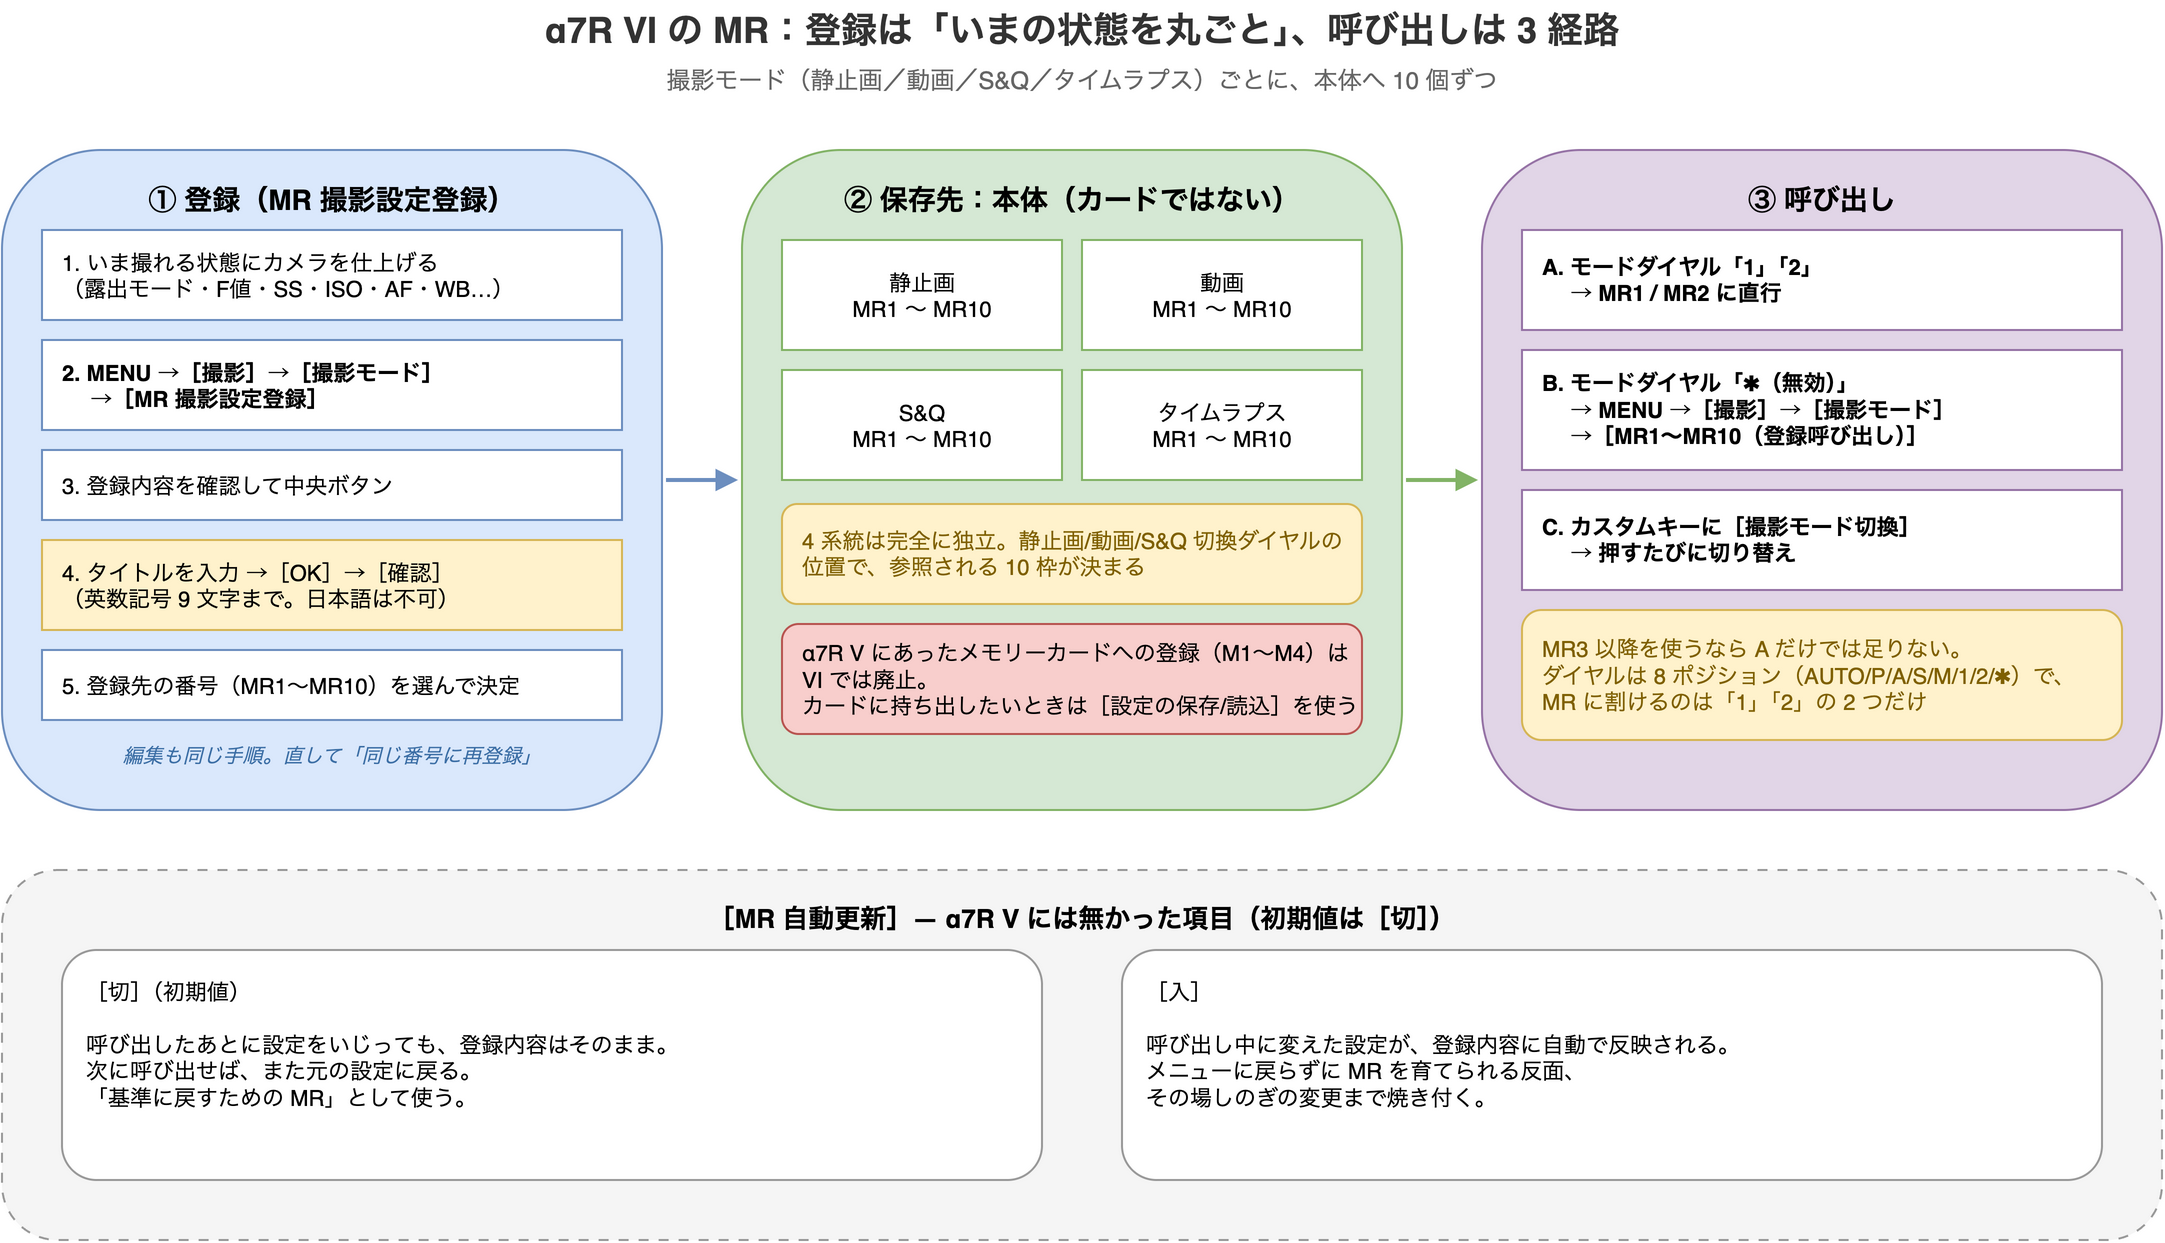
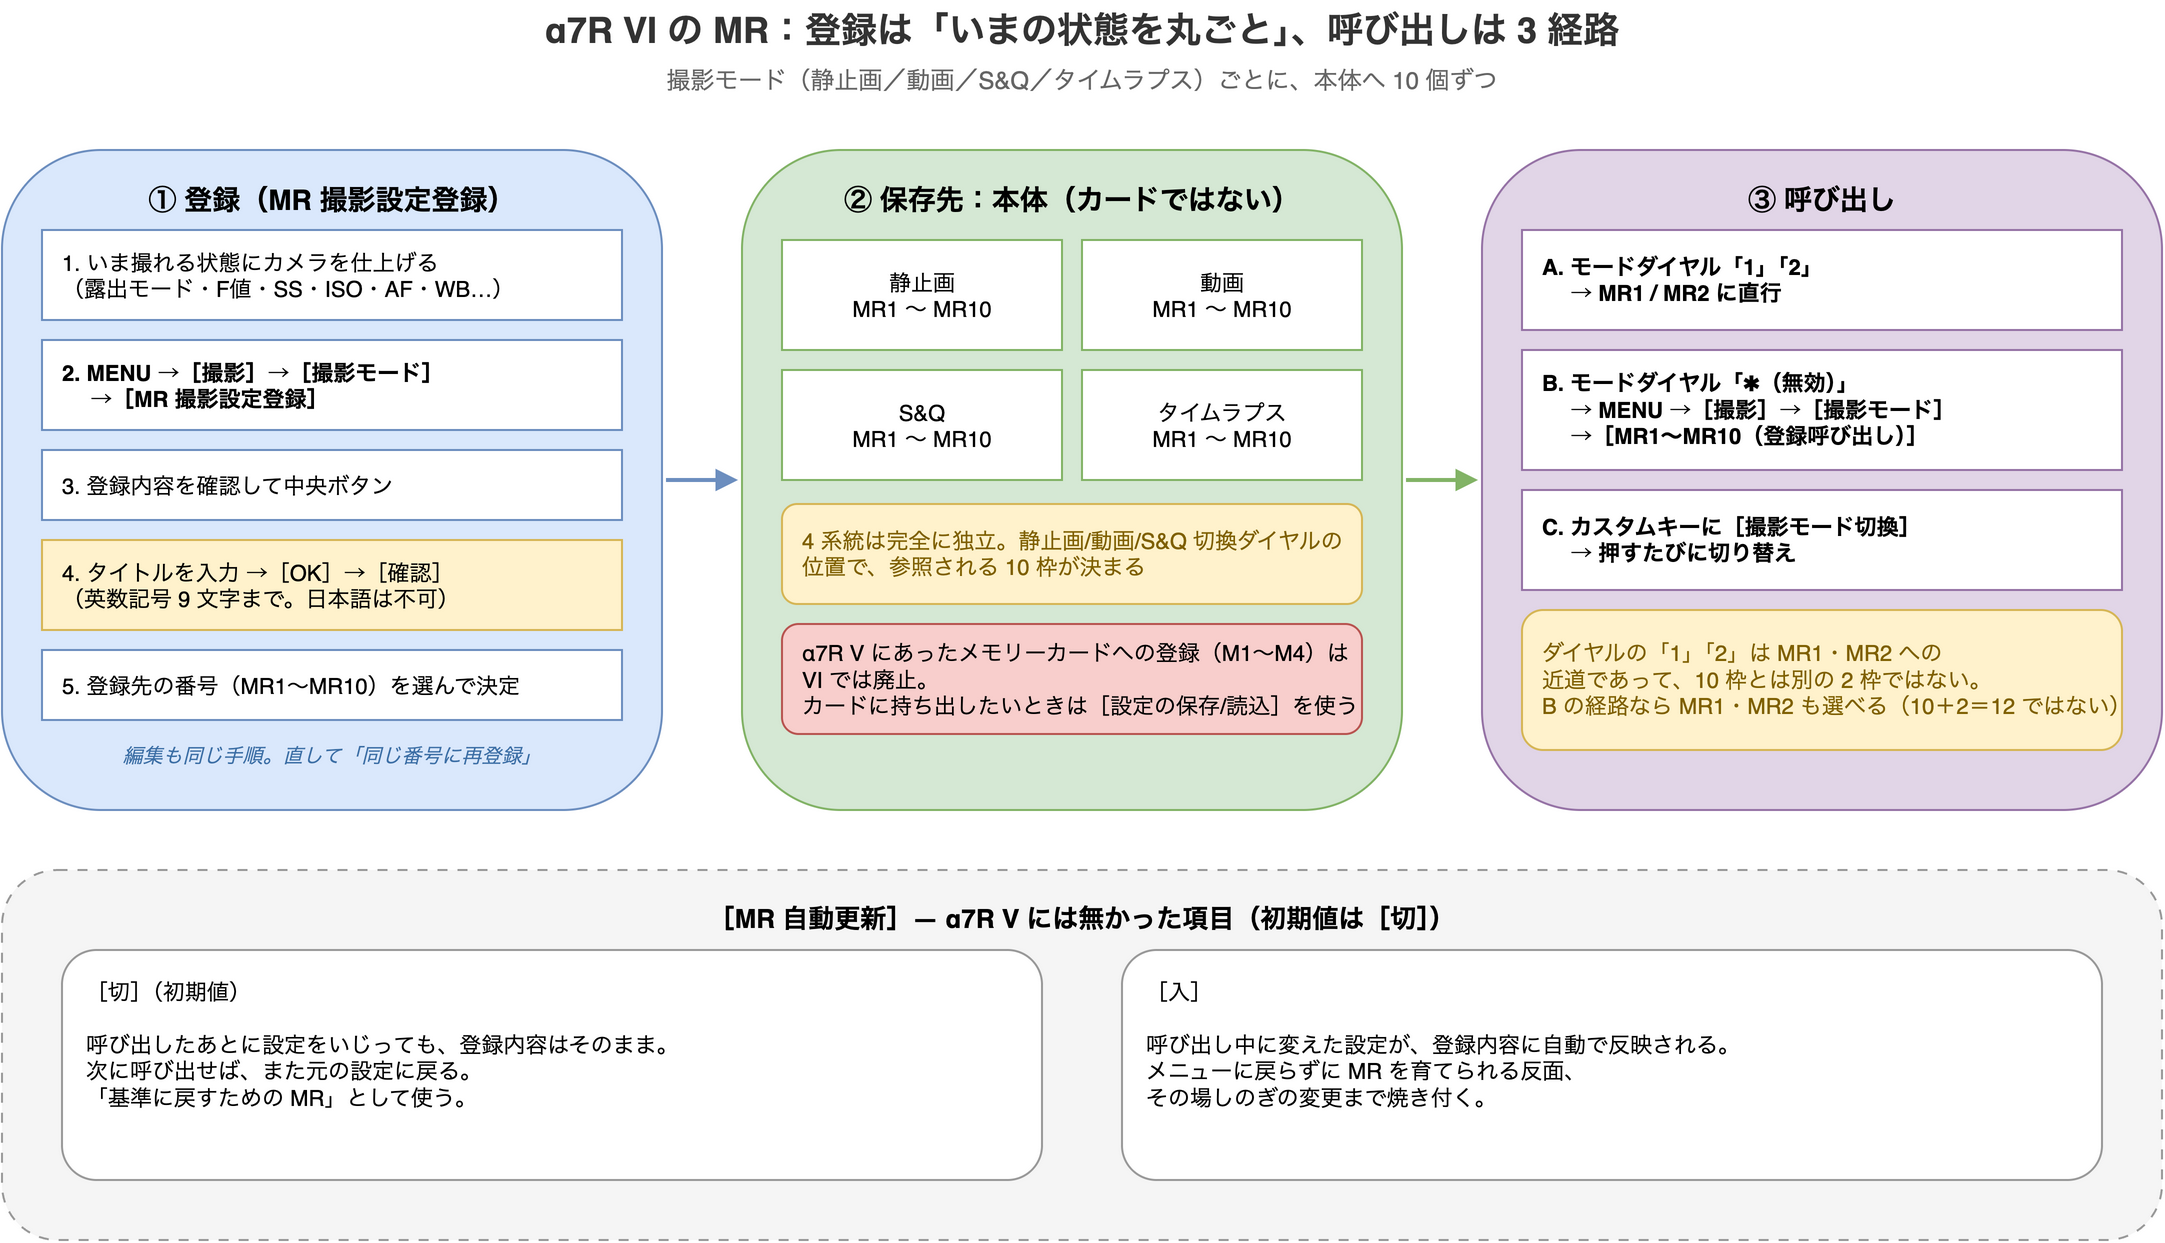
Clarify that mode dial 1/2 are shortcuts to MR1/MR2, not extra slots

Changed region(s): [[0.6808, 0.4891, 0.9903, 0.6114]]

diff --git a/content/posts/2026/08/2026-08-30-sony-a7r-vi-custom-modes.md b/content/posts/2026/08/2026-08-30-sony-a7r-vi-custom-modes.md
@@ -20,7 +20,7 @@ tags: ["カメラ", "ソニー", "α7R VI", "カスタムモード", "写真"]
 
 | 観点 | α7R V | α7R VI |
 |---|---|---|
-| 枠の数 | 本体 3 ＋ カード 4（M1〜M4）＝ 7 | **本体のみ 10（MR1〜MR10）** |
+| 枠の数 | 本体 3（ダイヤル 1/2/3）＋ カード 4（M1〜M4）＝ 7 | **本体のみ 10（MR1〜MR10）**。ダイヤル「1」「2」は MR1・MR2 への近道で、別枠ではない |
 | 保存先の選択 | ［MR 登録/呼出メディア］でスロットを指定 | **メニュー項目ごと廃止** |
 | 呼び出しメニュー | ［MR 撮影設定呼び出し］という独立項目 | **［撮影モード］に統合** |
 | 登録時のタイトル | なし | **入力が必須ステップ**（英数記号 9 文字） |
@@ -30,12 +30,12 @@ tags: ["カメラ", "ソニー", "α7R VI", "カスタムモード", "写真"]
 
 ## α7R VI の MR（登録呼び出し）の全体像
 
-![α7R VI の MR 登録呼び出しの全体像。登録の 5 ステップ、保存先（4 系統それぞれに MR1〜MR10、カード登録は廃止）、呼び出しの 3 経路（モードダイヤル 1/2、✱ からメニュー、カスタムキー）、そして ［MR 自動更新］の入と切の違いを 1 枚にまとめた図](/blogs/images/sony-a7r-vi-mr-flow.png)
+![α7R VI の MR 登録呼び出しの全体像。登録の 5 ステップ、保存先（4 系統それぞれに MR1〜MR10、カード登録は廃止）、呼び出しの 3 経路（モードダイヤル 1/2 は MR1・MR2 への近道、✱ からメニューで MR1〜MR10、カスタムキー）、そして ［MR 自動更新］の入と切の違いを 1 枚にまとめた図](/blogs/images/sony-a7r-vi-mr-flow.png)
 
 ポイントは 3 つです。
 
 - 保存先は本体のみ。撮影モードごとに 10 個ずつ登録できる
-- モードダイヤルで直接呼べるのは 2 つだけ（「1」「2」）。3 つ目以降はメニューかカスタムキー
+- モードダイヤルで直接呼べるのは 2 つだけ（「1」「2」＝ MR1・MR2）。3 つ目以降はメニューかカスタムキー
 - ［MR 自動更新］が増えた。呼び出し中の変更を、登録内容へ自動で反映できる
 
 ## MR 撮影設定登録の手順（5 ステップ）
@@ -54,9 +54,13 @@ tags: ["カメラ", "ソニー", "α7R VI", "カスタムモード", "写真"]
 
 α7R VI のモードダイヤルは **AUTO / P / A / S / M / 1 / 2 / ✱** の 8 ポジションです。最後の「✱」はアスタリスク状の刻印で、公式な呼称は「（無効）」です。
 
+ここで先に、間違えやすい点をひとつ。**ダイヤルの「1」「2」は、10 枠とは別に用意された 2 枠ではありません。** MR1・MR2 への近道です。ヘルプガイドは「MR1、MR2 を呼び出す場合はモードダイヤルを希望の番号にする」「モードダイヤルを（無効）にした場合は、メニューで MR1〜MR10 を呼び出すことができます」と書いており、**同じ 10 枠に入口が 2 通りある**という構造です。10 + 2 = 12 にはなりません。
+
+α7R V は「ダイヤル 1/2/3 に対応する本体 3 枠」＋「カードの M1〜M4」という**本当に別枠**の構成だったので、ここは V の感覚を持ち込むと取り違えます。
+
 ### A. モードダイヤルの「1」「2」
 
-それぞれ MR1、MR2 に直行します。いちばん速い経路ですが、**割り当てられるのは 2 つだけ**です。
+それぞれ MR1、MR2 に直行します。いちばん速い経路ですが、**ダイヤルから直接飛べるのはこの 2 つだけ**です。
 
 ### B. モードダイヤルの「✱（無効）」
 
